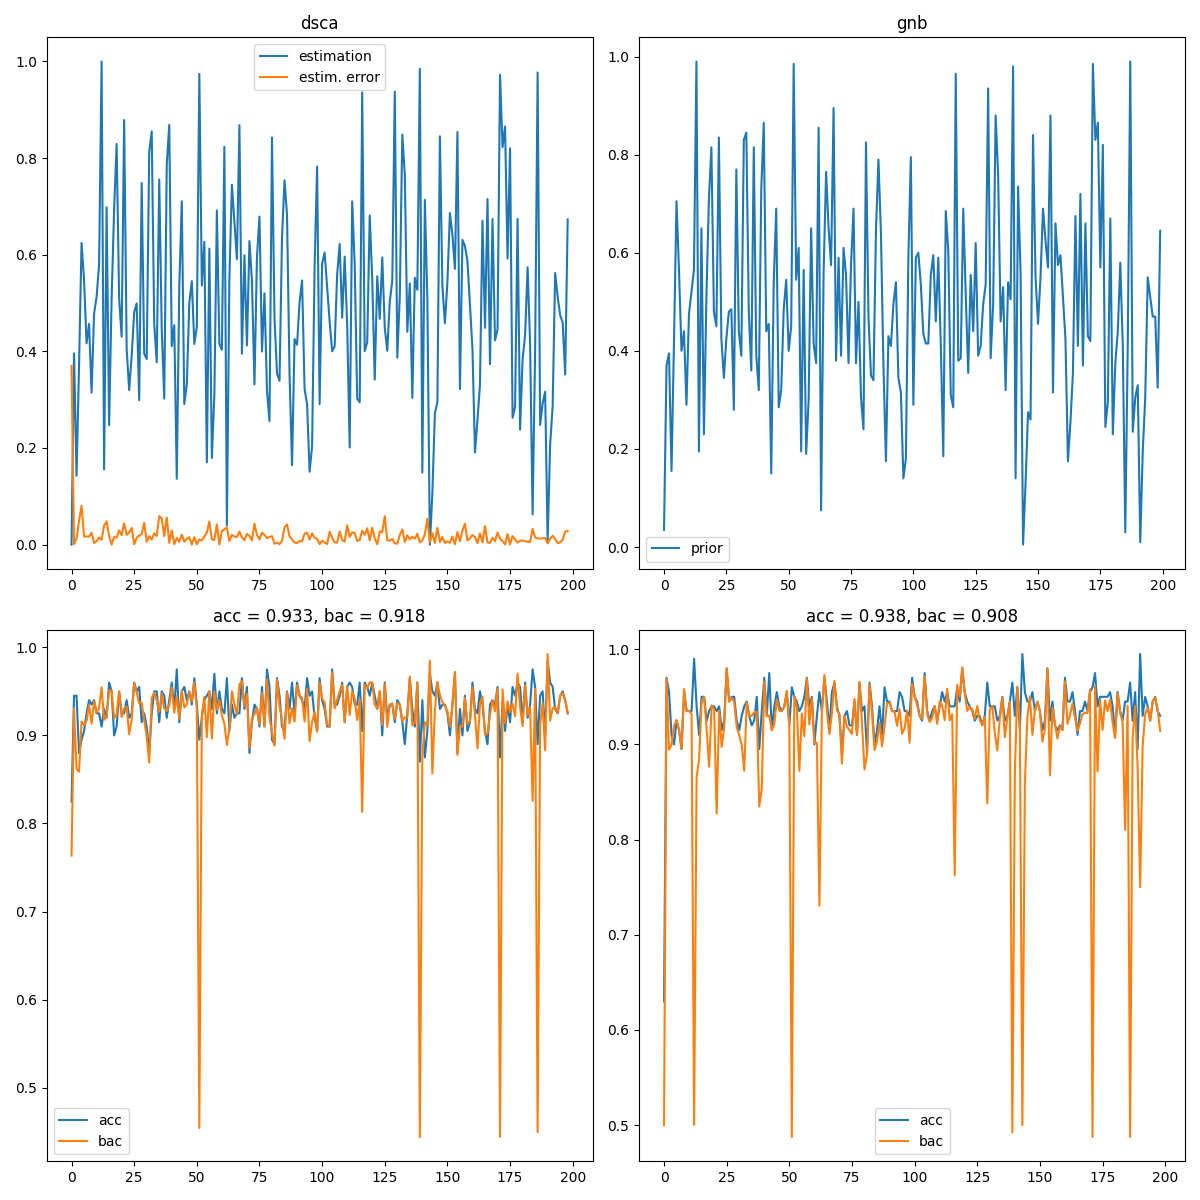
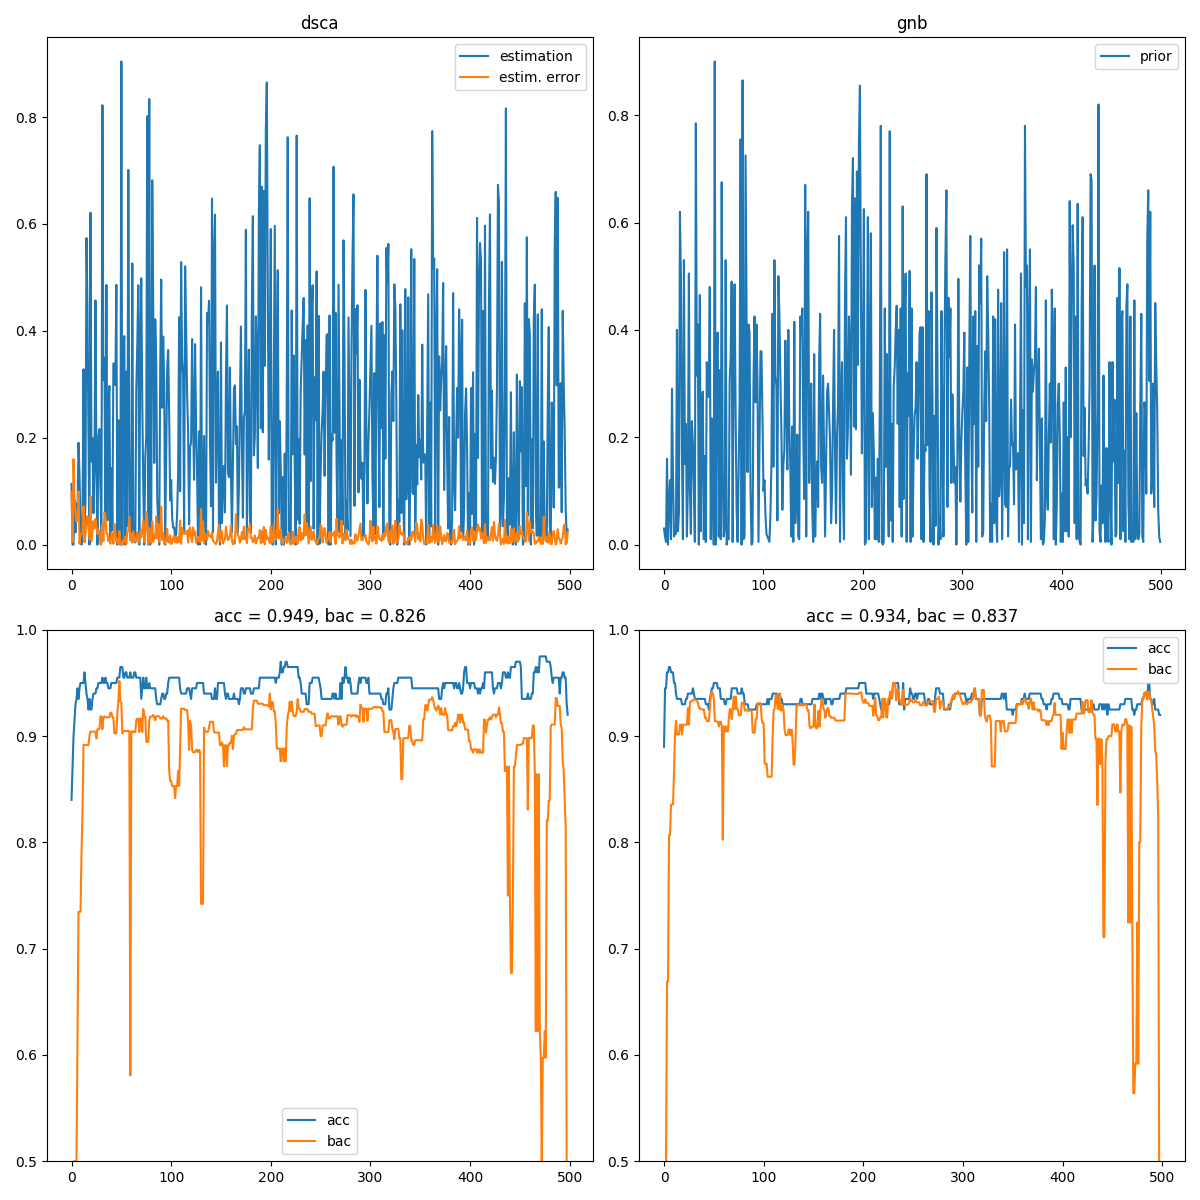
:/

diff --git a/test.py b/test.py
@@ -2,11 +2,19 @@ import numpy as np
 import strlearn as sl
 from meta import Meta
 from DSCA import DSCA
+from MEAN import MEAN
 from sklearn.naive_bayes import GaussianNB
 import matplotlib.pyplot as plt
+from sklearn.metrics import balanced_accuracy_score
+from sklearn.metrics import accuracy_score
+from scipy.signal import medfilt
+from sklearn.base import clone
+from sklearn.neighbors import KNeighborsClassifier
+from sklearn.neural_network import MLPClassifier
 
-weights = (.5, .25)
-# weights = (2, 5, 1.0)
+weights = (.2, .25)
+# weights = (2, 5, 1.)
+# weights = [0.05, 0.95]
 
 y_flip = (.01, .01)
 
@@ -21,26 +29,35 @@ stream = sl.streams.StreamGenerator(
     n_redundant=0,
     n_repeated=0,
     n_clusters_per_class=1,
-    n_chunks=200,
+    n_chunks=500,
     chunk_size=200,
     class_sep=1,
 )
 
-meta = Meta(base_clf=GaussianNB(), prior_estimator=DSCA())
-gnb = GaussianNB()
+# base = sl.ensembles.SEA(KNeighborsClassifier())
+# base = MLPClassifier()
+base = GaussianNB()
 
-eval = sl.evaluators.TestThenTrain(verbose=True)
-eval.process(stream, [gnb, meta])
+meta = Meta(base_clf=clone(base), prior_estimator=DSCA())
+# meta = Meta(base_clf=clone(base), prior_estimator=MEAN())
+gnb = clone(base)
+
+eval = sl.evaluators.TestThenTrain(verbose=True, metrics=(accuracy_score, balanced_accuracy_score))
+eval.process(stream, [meta, gnb])
+
+print(eval.scores.shape)
 
 fig, ax = plt.subplots(2, 2, figsize=(12,12))
+kernel=11
 
 ax[0,0].plot(meta.prior_estimator.calculated_priors_list, label = 'estimation')
 ax[0,0].plot(meta.prior_estimator.errs, label = 'estim. error')
 ax[0,0].set_title('dsca')
 ax[0,0].legend()
 
-ax[1,0].plot(eval.scores[0,:,0], label = 'acc')
-ax[1,0].plot(eval.scores[0,:,1], label = 'bac')
+ax[1,0].plot(medfilt(eval.scores[0,:,0], kernel), label = 'acc')
+ax[1,0].plot(medfilt(eval.scores[0,:,1], kernel), label = 'bac')
+ax[1,0].set_ylim(0.5,1)
 ax[1,0].set_title('acc = %.3f, bac = %.3f' % (np.mean(eval.scores[0,:,0]), np.mean(eval.scores[0,:,1])))
 ax[1,0].legend()
 
@@ -49,8 +66,9 @@ ax[0,1].plot(np.array(meta.prior_estimator.priors)[:,0], label = 'prior')
 ax[0,1].set_title('gnb')
 ax[0,1].legend()
 
-ax[1,1].plot(eval.scores[1,:,0], label = 'acc')
-ax[1,1].plot(eval.scores[1,:,1], label = 'bac')
+ax[1,1].plot(medfilt(eval.scores[1,:,0], kernel), label = 'acc')
+ax[1,1].plot(medfilt(eval.scores[1,:,1], kernel), label = 'bac')
+ax[1,1].set_ylim(0.5,1)
 ax[1,1].set_title('acc = %.3f, bac = %.3f' % (np.mean(eval.scores[1,:,0]), np.mean(eval.scores[1,:,1])))
 ax[1,1].legend()
 

diff --git a/DSCA.py b/DSCA.py
@@ -1,5 +1,4 @@
 import numpy as np
-from sklearn.base import ClassifierMixin, BaseEstimator
 from sklearn.neural_network import MLPRegressor
 from sklearn.base import clone
 
@@ -14,7 +13,7 @@ base_reg - regressor for dsca
 self.calculated_priors_list - contains results or prior proba estimation
 """
 
-class DSCA(BaseEstimator, ClassifierMixin):
+class DSCA():
     def __init__(self, 
                 window=1,
                 max_iter=250,
@@ -39,11 +38,18 @@ class DSCA(BaseEstimator, ClassifierMixin):
     def feed(self, X, y, classes):
         self.X = np.copy(X)
         self.y = np.copy(y)
-        self.classes_ = np.copy(classes)
+        self.classes = np.copy(classes)
 
         # Gather priors
-        _ = np.unique(y, return_counts=True)
-        self.priors.append(_[1][self.classes_[_[0]]] / y.shape)
+        unique, counts  = np.unique(y, return_counts=True)
+        if len(unique) == 1:
+            if unique[0] == 0:
+                self.priors.append([1., 0.])
+            else:
+                self.priors.append([0., 1.])
+        else:
+            self.priors.append(counts / y.shape)
+        
         apriors = np.array(self.priors)
 
         # Dynamic statistical concept analysis
@@ -63,7 +69,6 @@ class DSCA(BaseEstimator, ClassifierMixin):
         for i in range(n_iter):
             self.dsca_reg_0.partial_fit(self.dsca_X[-window:], np.array(apriors[-window:,0]))
             self.dsca_reg_1.partial_fit(self.dsca_X[-window:], np.array(apriors[-window:,1]))
-
 
         
     def estimate(self, X):

diff --git a/meta.py b/meta.py
@@ -1,11 +1,20 @@
 from sklearn.base import BaseEstimator, ClassifierMixin, clone
 import numpy as np
 
+"""
+criterion:
+'min' - minimalne wsparcie dla lasy wiekszosciowej
+'max' - maksymalne wparcie dla klasy mniejszosciowej
+
+correction - czy uzywac predykcji klayfikatora bazowego jako bazy
+"""
+
 class Meta(BaseEstimator, ClassifierMixin):
-    def __init__(self, base_clf, prior_estimator, criterion='min'):
+    def __init__(self, base_clf, prior_estimator, criterion='min', correction = False):
         self.base_clf = base_clf
         self.prior_estimator = prior_estimator
         self.criterion=criterion
+        self.correction = correction
 
         self.clf = clone(base_clf)
 
@@ -15,7 +24,11 @@ class Meta(BaseEstimator, ClassifierMixin):
         return self
 
     def predict(self, X):
-        pred = np.ones((X.shape[0]))
+
+        if self.correction:
+            pred = self.clf.predict(X)
+        else:
+            pred = np.ones((X.shape[0]))
 
         estim_prior = self.prior_estimator.estimate(X)
         negative_class_samples = int(np.rint(estim_prior*X.shape[0]))
@@ -27,7 +40,9 @@ class Meta(BaseEstimator, ClassifierMixin):
 
         if self.criterion == 'min':
             pred[min_supp_1] = 0
-        else:
+        elif self.criterion == 'max':
             pred[max_supp_0] = 0
+        else:
+            exit()
 
         return pred

diff --git a/MEAN.py b/MEAN.py
@@ -1,0 +1,40 @@
+import numpy as np
+
+"""
+MEAN prior probability estimator
+"""
+
+class MEAN():
+    def __init__(self):
+
+        self.priors = []
+        self.calculated_priors_list=[]
+        self.errs=[]
+
+    def feed(self, X, y, classes):
+        self.X = np.copy(X)
+        self.y = np.copy(y)
+        self.classes = np.copy(classes)
+
+        # Gather priors
+        unique, counts  = np.unique(y, return_counts=True)
+        if len(unique) == 1:
+            if unique[0] == 0:
+                self.priors.append([1., 0.])
+            else:
+                self.priors.append([0., 1.])
+        else:
+            self.priors.append(counts / y.shape)
+
+        print(self.priors[-1][0])
+        print(np.array(self.priors).shape)
+        if hasattr(self, 'chunk_estim_prior'):
+            self.errs.append(self.priors[-1][0] - self.chunk_estim_prior)
+                
+    def estimate(self, X):
+        self.chunk_estim_prior = np.mean(np.array(self.priors), axis=0)[0]
+
+        # Save current chunk estimated pprior
+        self.calculated_priors_list.append(self.chunk_estim_prior)
+        
+        return self.chunk_estim_prior
